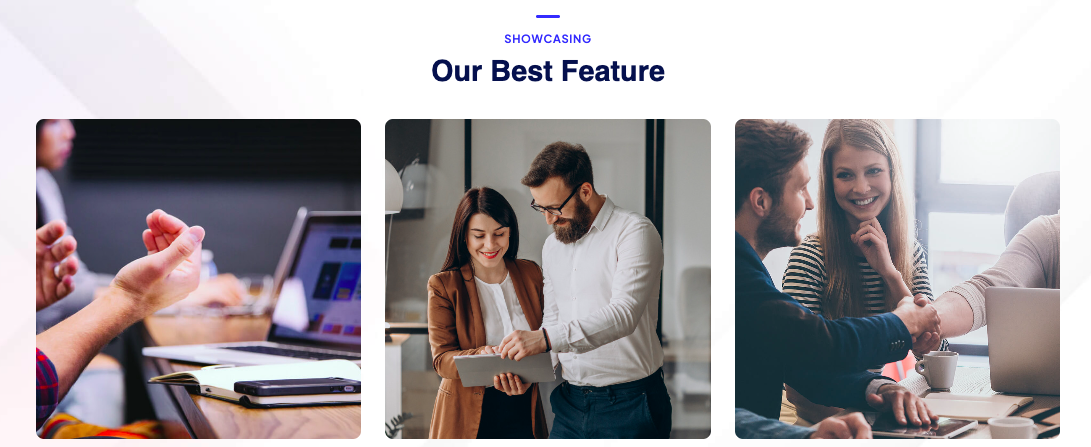
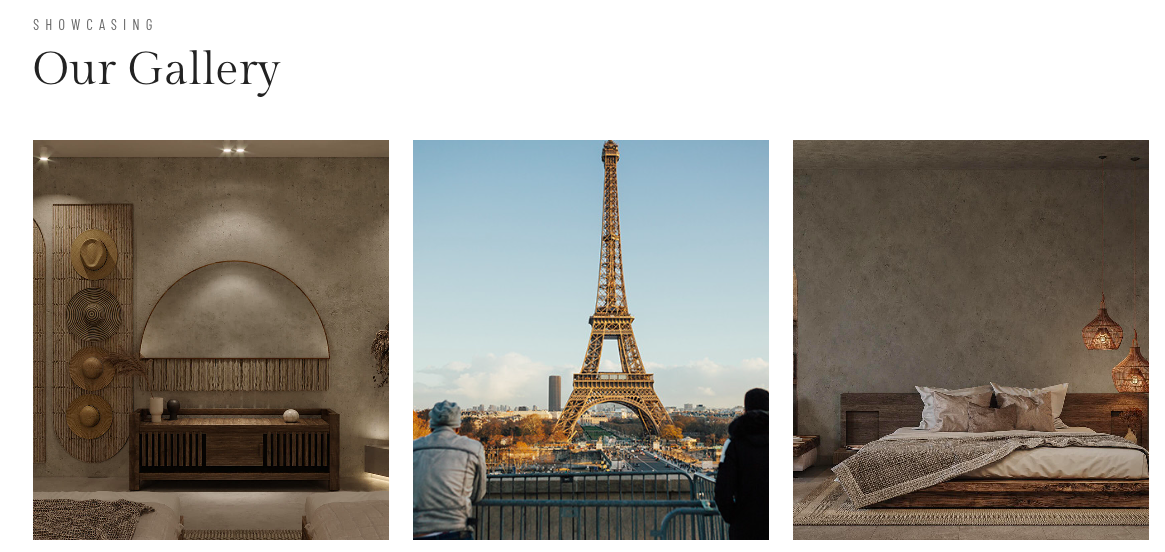
gallery updates

diff --git a/resources/views/backend/page/includes/page_section.blade.php b/resources/views/backend/page/includes/page_section.blade.php
@@ -89,41 +89,41 @@
 
                     </div>
                 </div>
-                <div class="card shadow-none">
-                    <div class="card-header">
-                        <h5 class="card-title text-primary mb-0">Map and Description </h5>
-                    </div>
-                    <div class="card-body">
-                        <div class="row">
-                            <div class="col-md-12">
-                                <label class="image-checkbox {{ $page_method == 'edit' ? (in_array('map_and_description', $data['section_slug']) ? "image-checkbox-checked":"") : ''}}">
-                                    <img class="img-responsive" src="{{asset('assets/backend/images/pages/sections/map_and_description.png')}}" width="100%"/>
-                                    <input type="checkbox" name="section[]" value="map_and_description" id="map_and_description.png" {{ $page_method == 'edit' ? (in_array('map_and_description', $data['section_slug']) ? "checked":"") : ''}} />
-                                    <i class="ri ri-check-line hidden"></i>
-                                </label>
-                            </div>
-                        </div>
+{{--                <div class="card shadow-none">--}}
+{{--                    <div class="card-header">--}}
+{{--                        <h5 class="card-title text-primary mb-0">Map and Description </h5>--}}
+{{--                    </div>--}}
+{{--                    <div class="card-body">--}}
+{{--                        <div class="row">--}}
+{{--                            <div class="col-md-12">--}}
+{{--                                <label class="image-checkbox {{ $page_method == 'edit' ? (in_array('map_and_description', $data['section_slug']) ? "image-checkbox-checked":"") : ''}}">--}}
+{{--                                    <img class="img-responsive" src="{{asset('assets/backend/images/pages/sections/map_and_description.png')}}" width="100%"/>--}}
+{{--                                    <input type="checkbox" name="section[]" value="map_and_description" id="map_and_description.png" {{ $page_method == 'edit' ? (in_array('map_and_description', $data['section_slug']) ? "checked":"") : ''}} />--}}
+{{--                                    <i class="ri ri-check-line hidden"></i>--}}
+{{--                                </label>--}}
+{{--                            </div>--}}
+{{--                        </div>--}}
 
-                    </div>
-                </div>
+{{--                    </div>--}}
+{{--                </div>--}}
 
-                <div class="card shadow-none">
-                    <div class="card-header">
-                        <h5 class="card-title text-primary mb-0">Timeline</h5>
-                    </div>
-                    <div class="card-body">
-                        <div class="row">
-                            <div class="col-md-12">
-                                <label class="image-checkbox {{ $page_method == 'edit' ? (in_array('timeline', $data['section_slug']) ? "image-checkbox-checked":"") : ''}}">
-                                    <img class="img-responsive" src="{{asset('assets/backend/images/pages/sections/timeline.png')}}" width="100%"/>
-                                    <input type="checkbox" name="section[]" value="timeline" id="timeline.png" {{ $page_method == 'edit' ? (in_array('timeline', $data['section_slug']) ? "checked":"") : ''}} />
-                                    <i class="ri ri-check-line hidden"></i>
-                                </label>
-                            </div>
-                        </div>
+{{--                <div class="card shadow-none">--}}
+{{--                    <div class="card-header">--}}
+{{--                        <h5 class="card-title text-primary mb-0">Timeline</h5>--}}
+{{--                    </div>--}}
+{{--                    <div class="card-body">--}}
+{{--                        <div class="row">--}}
+{{--                            <div class="col-md-12">--}}
+{{--                                <label class="image-checkbox {{ $page_method == 'edit' ? (in_array('timeline', $data['section_slug']) ? "image-checkbox-checked":"") : ''}}">--}}
+{{--                                    <img class="img-responsive" src="{{asset('assets/backend/images/pages/sections/timeline.png')}}" width="100%"/>--}}
+{{--                                    <input type="checkbox" name="section[]" value="timeline" id="timeline.png" {{ $page_method == 'edit' ? (in_array('timeline', $data['section_slug']) ? "checked":"") : ''}} />--}}
+{{--                                    <i class="ri ri-check-line hidden"></i>--}}
+{{--                                </label>--}}
+{{--                            </div>--}}
+{{--                        </div>--}}
 
-                    </div>
-                </div>
+{{--                    </div>--}}
+{{--                </div>--}}
 
                 <div class="card shadow-none">
                     <div class="card-header">

diff --git a/resources/views/frontend/page/includes/gallery.blade.php b/resources/views/frontend/page/includes/gallery.blade.php
@@ -1,25 +1,22 @@
-<section class="project-area-two project-bg-two" data-background="{{ asset('assets/frontend/img/bg/project_bg02.jpg') }}" style="    padding: 90px 100px;">
-    <div class="container custom-container">
-        <div class="row justify-content-center">
-            <div class="col-lg-6">
-                <div class="section-title section-title-three text-center mb-20 tg-heading-subheading animation-style1">
-                    <span class="sub-title tg-element-title">{{ $element->list_number_2 ?? '' }}</span>
-                    <h2 class="title tg-element-title">{{ $element->list_number_1 ?? '' }}</h2>
-                </div>
-            </div>
-        </div>
+<section class="section-padding">
+    <div class="container">
         <div class="row">
+            <div class="col-md-12">
+                <div class="section-subtitle">{{ $element->list_number_2 ?? '' }}</div>
+                <div class="section-title">{{ $element->list_number_1 ?? '' }}</div>
+            </div>
+
+            <!-- 3 columns -->
             @foreach($element->pageSectionGalleries as $index=>$gallery)
-                <div class="col-lg-4 col-md-6 col-sm-10 mt-3">
-                    <div class="project-thumb-two">
-                        <div class="magnific-img">
-                            <a class="image-popup-vertical-fit"
-                               href="{{ asset(galleryImagePath('section_element').$gallery->resized_name) }}" title="">
+                <div class="col-md-4 gallery-item">
+                    <a href="{{ asset(galleryImagePath('section_element').$gallery->resized_name) }}" title="" class="img-zoom">
+                        <div class="gallery-box">
+                            <div class="gallery-img">
                                 <img src="{{ asset(galleryImagePath('section_element').$gallery->resized_name) }}"
-                                     class="{{ @$page_detail->slug=='legal-document' || @$page_detail->slug=='legal-documents' || @$page_detail->slug=='sample-documents' || @$page_detail->slug=='sample-document' ? '':'image-dimension' }}" alt="" />
-                            </a>
+                                     class="mx-auto d-block {{ @$page_detail->slug=='legal-document' || @$page_detail->slug=='legal-documents' || @$page_detail->slug=='sample-documents' || @$page_detail->slug=='sample-document' ? '':'image-dimension' }}" alt="work-img">
+                            </div>
                         </div>
-                    </div>
+                    </a>
                 </div>
             @endforeach
         </div>

diff --git a/resources/views/backend/page/show.blade.php b/resources/views/backend/page/show.blade.php
@@ -68,9 +68,9 @@
                                         @if($value == 'faq')
                                             @include($view_path.'includes.faq')
                                         @endif
-                                        @if($value == 'map_and_description')
-                                            @include($view_path.'includes.map_and_description')
-                                        @endif
+{{--                                        @if($value == 'map_and_description')--}}
+{{--                                            @include($view_path.'includes.map_and_description')--}}
+{{--                                        @endif--}}
                                         @if($value == 'header_description')
                                             @include($view_path.'includes.header_description')
                                         @endif
@@ -83,9 +83,9 @@
                                         @if($value == 'gallery')
                                             @include($view_path.'includes.gallery')
                                         @endif
-                                            @if($value == 'timeline')
-                                            @include($view_path.'includes.timeline')
-                                        @endif
+{{--                                            @if($value == 'timeline')--}}
+{{--                                            @include($view_path.'includes.timeline')--}}
+{{--                                        @endif--}}
                                     </div>
                                 @endforeach
                             </div>

diff --git a/resources/views/frontend/page/index.blade.php b/resources/views/frontend/page/index.blade.php
@@ -10,8 +10,8 @@
         transition: .3s linear;
     }
     .mfp-container {
-        max-width: 900px;
-        max-height: 900px;
+        max-width: 1000px;
+        max-height: 1000px;
         margin: 0 auto;
         top: 50% !important;
         left: 50% !important;
